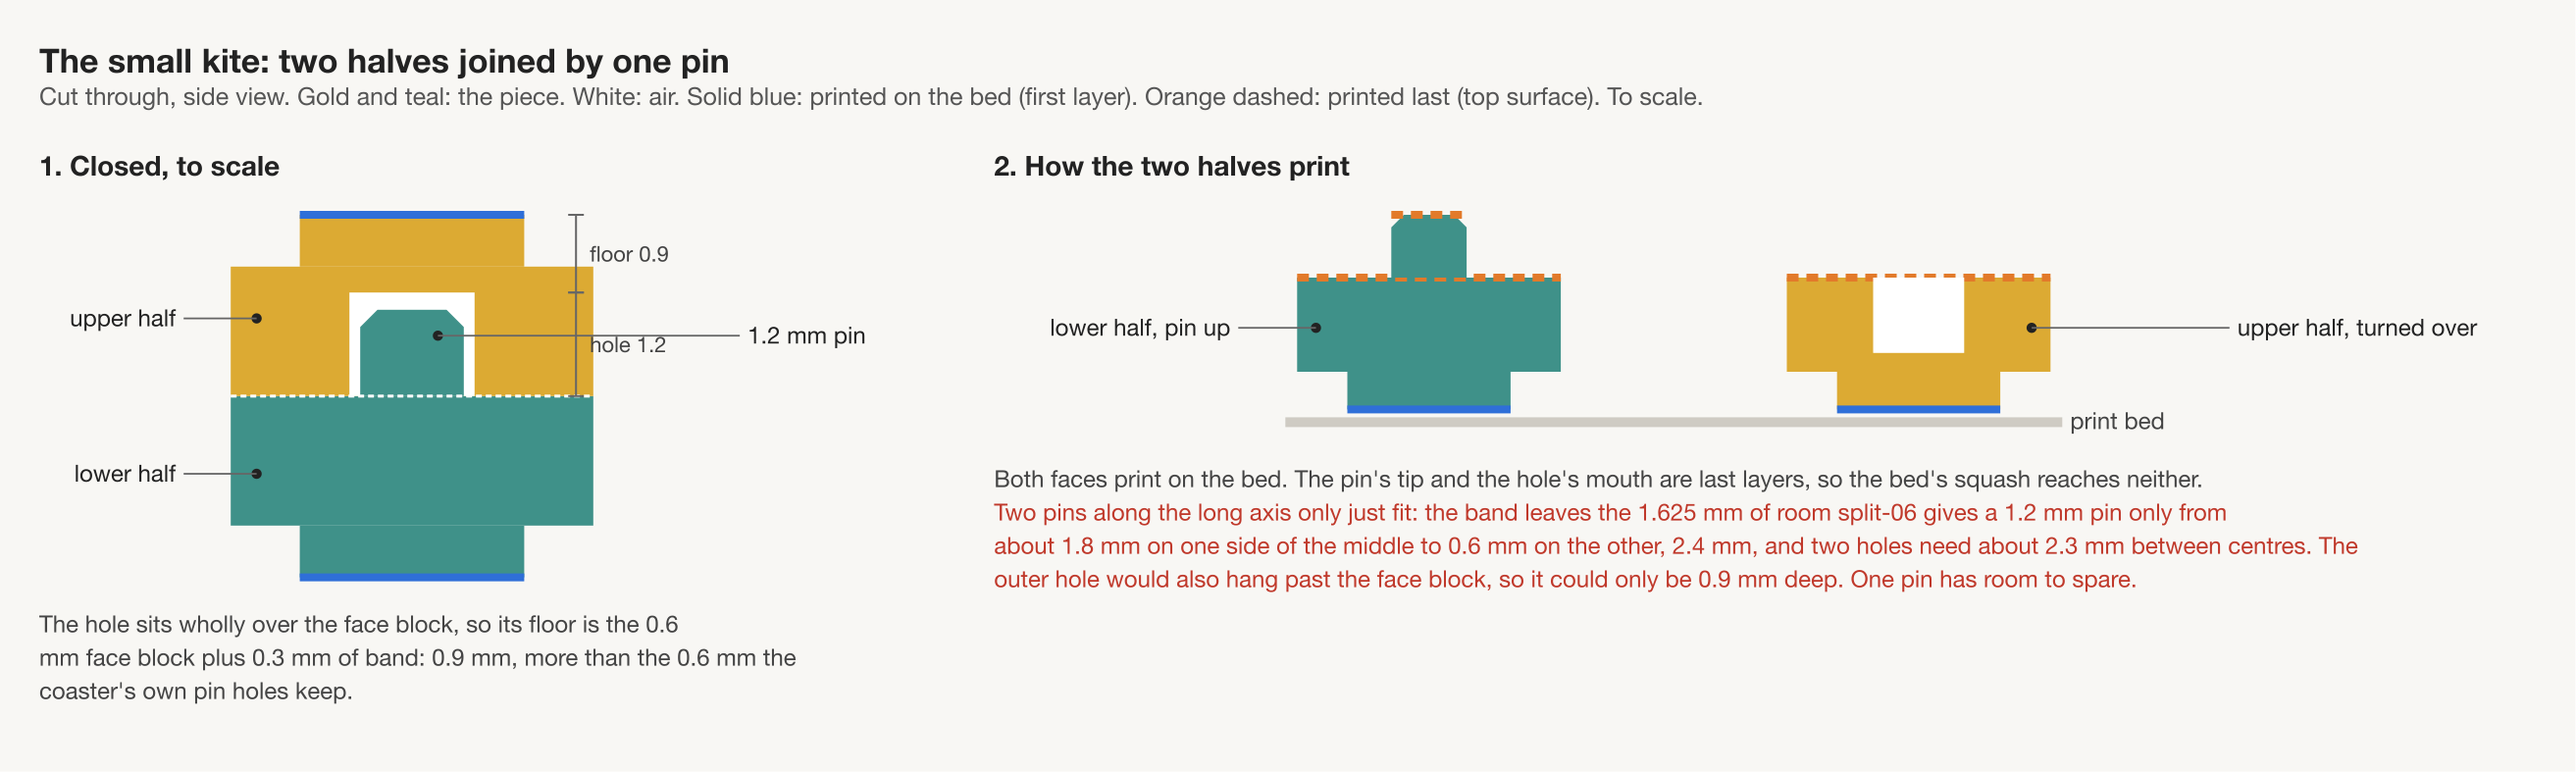
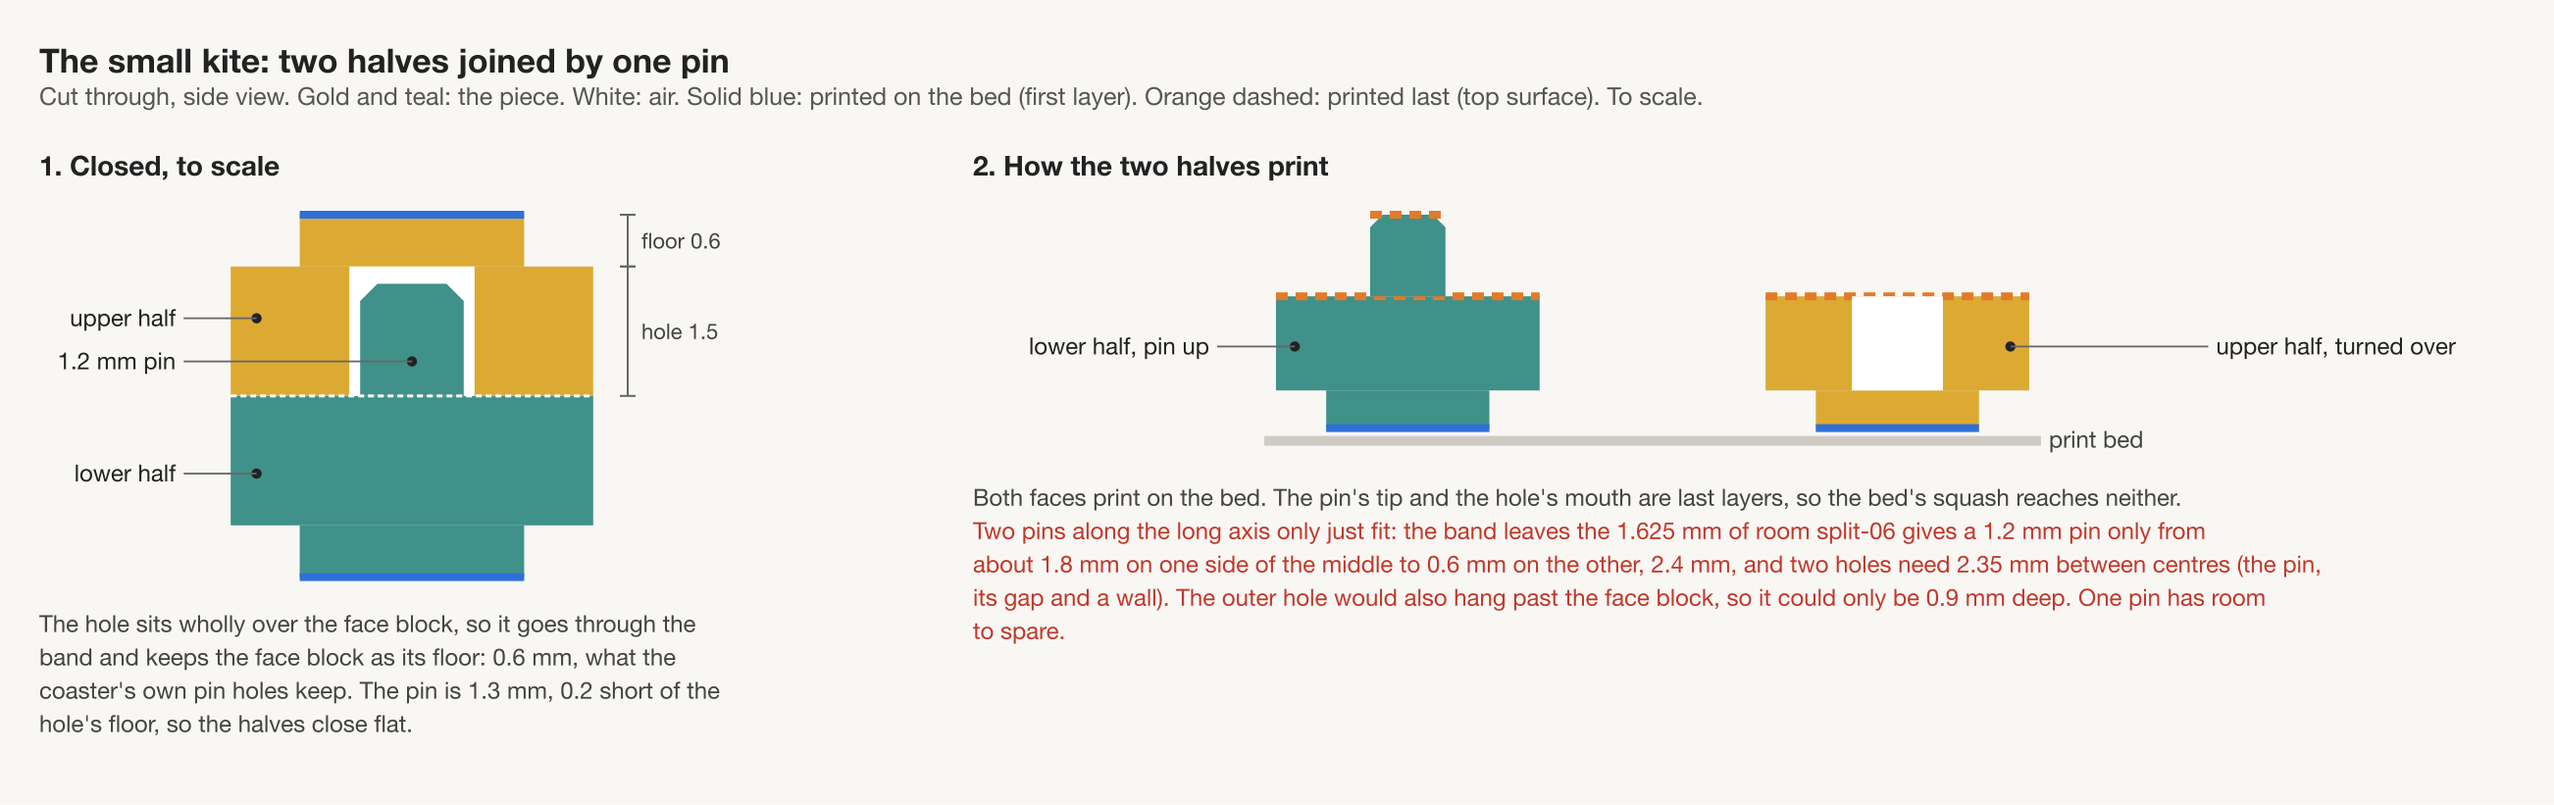
Cut pieces: pins on a half, in the cookbook and the design doc (bikar #347) (#789)
The cookbook gets a recipe and a picture for pins that close a cut piece:
the gold middle piece with no pins, one pin and two pins. The design doc
points at bikar #347 and explains why a point is a corner sharper than 90°
(every tip on this coaster is 36° or 72°, every shoulder 108° or more).

The cookbook renderer now names the label font for multi-copy pictures.
ImageMagick's own default came from Ghostscript's font list, which left it
pointing nowhere on this machine ("unable to read font"), so every
picture with several copies failed.

Claude-Session: https://claude.ai/code/session_01WeTHrCWsKa9pjDBJpfTez7

diff --git a/tools/cookbook_render.py b/tools/cookbook_render.py
@@ -56,6 +56,9 @@ import sys
 import tempfile
 
 ROOT = os.path.dirname(os.path.dirname(os.path.abspath(__file__)))
+# Fonts for the labels under each copy, first one present wins (see the montage call).
+LABEL_FONTS = ("/System/Library/Fonts/Helvetica.ttc", "/System/Library/Fonts/Supplemental/Arial.ttf",
+               "/usr/share/fonts/truetype/dejavu/DejaVuSans.ttf")
 sys.path.insert(0, os.path.join(ROOT, "build"))
 from brick_previews import mate_offset, openscad, render as openscad_render  # noqa: E402
 
@@ -249,8 +252,14 @@ def draw(cli, name, options, snippet):
             for label, png in pngs:
                 cmd += ["-label", label, png]
             cmd += ["-tile", f"{len(pngs)}x1", "-geometry", "+8+8", "-pointsize", "20",
-                    "-background", "white", out]
-            run(cmd, name)
+                    "-background", "white"]
+            # Name the label font: ImageMagick's own default comes from Ghostscript's font
+            # list, which a Ghostscript upgrade can leave pointing nowhere ("unable to read
+            # font `'"), and then every multi-copy picture fails (2026-10-25).
+            font = next((f for f in LABEL_FONTS if os.path.exists(f)), None)
+            if font:
+                cmd += ["-font", font]
+            run(cmd + [out], name)
     return os.path.relpath(out, ROOT), len(copies)
 
 

diff --git a/docs/design/coaster/cut-pieces-joins-design.md b/docs/design/coaster/cut-pieces-joins-design.md
@@ -78,11 +78,17 @@ is the outline's area over the area of its convex hull: 1.0 means it never turns
 
 ### 2.1 A pin in a half
 
-A half is 2.1 mm: the 0.6 mm face block and 1.5 mm of band. A 1.2 mm pin 1.0 mm tall goes into a
-1.45 mm hole 1.2 mm deep, so the cut faces close flat. Where the hole sits wholly over the face
-block its floor is 0.9 mm, above the 0.6 mm the coaster keeps under its own pin holes (CAL-CST-03).
-Where it hangs past the face block, there is nothing under the band but air, so the hole can only
-be 0.9 mm deep to keep 0.6 mm of band under it.
+A half is 2.1 mm: the 0.6 mm face block and 1.5 mm of band. A 1.2 mm pin goes into a 1.45 mm hole
+that keeps 0.6 mm of floor under it, the floor the coaster keeps under its own pin holes
+(CAL-CST-03). Where the hole sits wholly over the face block it is 1.5 mm deep (2.1 less 0.6).
+Where it hangs past the face block there is nothing under the band but air, so it can only be
+0.9 mm deep (the band's 1.5 less 0.6). The pin is 0.2 mm shorter than its hole, so the cut faces
+close flat and a little sag at the hole's floor does not hold them apart.
+
+*Corrected 2026-10-25, when bikar built it:* this section first said a 1.0 mm pin in a 1.2 mm hole
+over a 0.9 mm floor. That floor was a slip: the rule is 0.6 mm, and the hole goes as deep as the
+rule allows. On the flange coaster every hole sits over the face block (§5 step 2), so every
+pin is 1.3 mm tall.
 
 split-06's notes give a 1.2 mm pin 1.625 mm of room
 ([split-06.yaml](../plates/split-06.yaml)). Carrying that, and the 0.25 mm gap, to a piece half
@@ -94,16 +100,16 @@ pushed home. That is one reason §4.2 tries two gaps.
 - **Small kite: one pin, not two.** Along its long axis the band has 1.625 mm of room only from
   about 1.8 mm on one side of the middle to 0.6 mm on the other, and the face block reaches 0.725
   mm (half the hole) only from 1.5 mm on one side to 1.35 mm on the other. One pin 0.6 mm off the middle has 2.0 mm of band
-  room and 1.33 mm of face room. Two holes need about 2.3 mm between centres, which leaves the
+  room and 1.33 mm of face room. Two holes need 2.35 mm between centres (the pin, its gap and a wall), which leaves the
   outer one at the rule's edge and hanging past the face block, so two pins are not proposed.
 - **Star: one pin, at its middle.** 2.05 mm of face room, 2.94 of band room. Along its longest
-  line the room for a second pin runs out before the 2.3 mm spacing (1.44 mm of band room
+  line the room for a second pin runs out before the 2.35 mm spacing (1.44 mm of band room
   1.5 mm out on one side), so one pin.
 - **Middle: three pins.** The face has room for a pin from 8 mm on one side to 8 mm on the other.
 - **Hexagons: two pins** about 4 mm either side of the middle, with room to spare, as the
   comparison for the slide.
 
-![Two side views of the small kite to scale. 1: the two halves closed, a 1.2 mm pin from the lower half in a 1.2 mm hole in the upper half, a 0.9 mm floor over the face block. 2: both halves printed face down, the pin standing up on one, the hole open on the other; a red note says two pins only just fit.](cut-pieces-joins-media/kite-pin.png)
+![Two side views of the small kite to scale. 1: the two halves closed, a 1.2 mm pin 1.3 mm tall from the lower half in a 1.5 mm deep hole in the upper half, a 0.6 mm floor over the face block. 2: both halves printed face down, the pin standing up on one, the hole open on the other; a red note says two pins only just fit.](cut-pieces-joins-media/kite-pin.png)
 
 ### 2.2 A slide in a half
 
@@ -251,6 +257,30 @@ pairs are tried in a flange coaster Omar has in hand: split-06's, or split-07's 
    deep over the face block, shallower where it hangs past. Refuse a pin with no room, with the
    room it found. Refuse too any pin or disc, the piece's own or the coaster's, that cuts into a
    piece's point (§2.4), naming the piece and the point.
+   **How it is spelled (built 2026-10-25, [bikar 347](https://github.com/NaqshCoffee/bikar/pull/347)):**
+   the pin size goes on the hold, `hold flange … halves 1 pin 1.2 gap 0.25 wall 0.9 spacing 0`,
+   and each piece kind asks for its count, `loose … pins 2`. `gap` and `wall` default to
+   split-05's 0.25 mm and the coaster's 0.9 mm socket wall; `spacing 0` means the least that
+   fits, the pin, its gap and a wall, 2.35 mm. The flange coaster pattern carries all of it as
+   params (`pin`, `pin_gap`, `pin_wall`, `pin_spacing`, and `pins_middle`, `pins_kite`,
+   `pins_hex`, `pins_star`, `pins_outer`), each off at 0. Pins stand on the lower half; the
+   upper half takes the holes. On split-04's slice with one pin on the kite and star and two on
+   the others, every hole sits over the face block, so every hole is 1.5 mm and every pin 1.3 mm;
+   a hanging hole does not come up on this coaster, so the 0.9 mm case is built but not yet seen.
+   `halves` is the switch: with it off, `pin` and `pins` build nothing, so each knob on its own
+   still builds (bikar builds every param at its range ends, one at a time). bikar always refuses
+   pins on a coaster that is not split. With halves on it refuses pins with no pin size, a wall
+   thinner than one line, a spacing under the least, and more pins than a piece has room for (a
+   second kite pin: "has room for 1 of its 2 pins … widest room on it is 1.95 mm"), and a coaster
+   stud whose bite reaches a piece's point.
+   bikar calls a convex corner sharper than 90° a point. That is a line drawn through this
+   coaster's own corners, not a printed reading: every tip on it is 36° or 72° and every shoulder
+   108° or more, so any line between 72° and 108° sorts them the same
+   ([§2.4](#24-risk-pins-that-bite-a-pieces-point)). A coaster with a corner between 72° and
+   108° has not been seen, and on one the line would need looking at again. split-07 as it printed still builds whole but is refused with halves on, because one
+   of its studs bites a point. So cut pieces that fit split-07 as printed cannot be built: the
+   plate needs a coaster whose studs sit off the points (the place-pins skill), which also means
+   printing that coaster.
 3. **A slide on a piece half.** Reuse the dovetail kernel's layer widths on a half's cut face.
    Either run the rail on the face's outline, or allow the hexagons' notches; keep the refusal for
    an outline that turns inward and say which piece it refused. Refuse a slot that leaves under

diff --git a/docs/cookbook/coaster-knobs.md b/docs/cookbook/coaster-knobs.md
@@ -677,7 +677,55 @@ printed yet.
 
 Related: [loose pieces in pockets](#loose-pieces-in-pockets),
 [the split design, §11](../design/pieces/split-with-studs-design.md),
-[an id on each half](#an-id-on-each-half-of-a-split-coaster).
+[an id on each half](#an-id-on-each-half-of-a-split-coaster),
+[pins in a cut piece](#pins-that-close-a-cut-piece).
+
+## Pins that close a cut piece
+
+A flange piece prints with one face up, so that face comes out rougher than the one on the bed.
+`halves 1` on the hold cuts each loose piece in two at its middle, so both halves print face
+down and both faces come off the bed smooth. The two halves then need lining up when they are
+glued, and that is what pins are for. `pin <⌀>` on the hold sizes them, and `pins <n>`, last on
+a `loose` line, asks for `n` on each of that line's pieces. Each pin stands on the lower half's
+cut face and goes into a hole in the upper half. One pin goes where the piece has the most room;
+more spread out from there. The picture draws the star coaster opened up with no pins, one pin
+and two pins on its gold middle piece, with the pins drawn 3 mm wide so they show.
+
+<!-- recipe: coaster-half-pins; swap: pins 0 | pins 1 | pins 2 -->
+```bkr
+pattern star
+  circle c center(0, 0) radius 45
+  divide c into 8
+  connect every 3
+  palette pal
+    Slab = #9a9a9a
+    Gold = #d4af37
+    Teal = #2f8f8f
+    fill void where orbit == 0 color Gold
+    fill void where orbit == 2 color Teal
+
+coaster Coaster
+  outline pattern
+  inscribe star
+  base 4.4
+  strap width 4
+  loose where orbit == 0 clearance 0.25 pack zipper pins 1
+  split at 2.2 studs 2 hold flange 0.8 room 0.2 halves 1 pin 3
+```
+![The star coaster opened up three times, its gold middle piece cut in two with no pins, one pin and two pins](img/coaster-half-pins.png)
+
+**Watch out:** `halves` is the switch. With it off, `pin` and `pins` build nothing, so a pattern
+can carry every pin knob at 0. `pins` on a coaster that is not split is refused. With halves on,
+`pins` with no `pin` size is refused, and so is a piece with room for fewer pins than it asks
+for: bikar names the piece and its widest room. The hole is wider than the pin by `gap` (0.25 mm
+by default), keeps a `wall` round it (0.9 mm by default) and two pins stand at least `spacing`
+apart (the pin, its gap and a wall by default). The hole stops at a 0.6 mm floor, and the pin is
+0.2 mm shorter than its hole so the cut faces close flat. Cutting pieces in two has not been
+printed yet.
+
+Related: [split coasters](#split-coasters-two-halves-that-trap-the-pieces),
+[the cut-pieces design](../design/coaster/cut-pieces-joins-design.md),
+[the language reference](https://github.com/NaqshCoffee/bikar/blob/main/docs/language-reference.md).
 
 ## An id on each half of a split coaster
 <!--covers:mark-->
